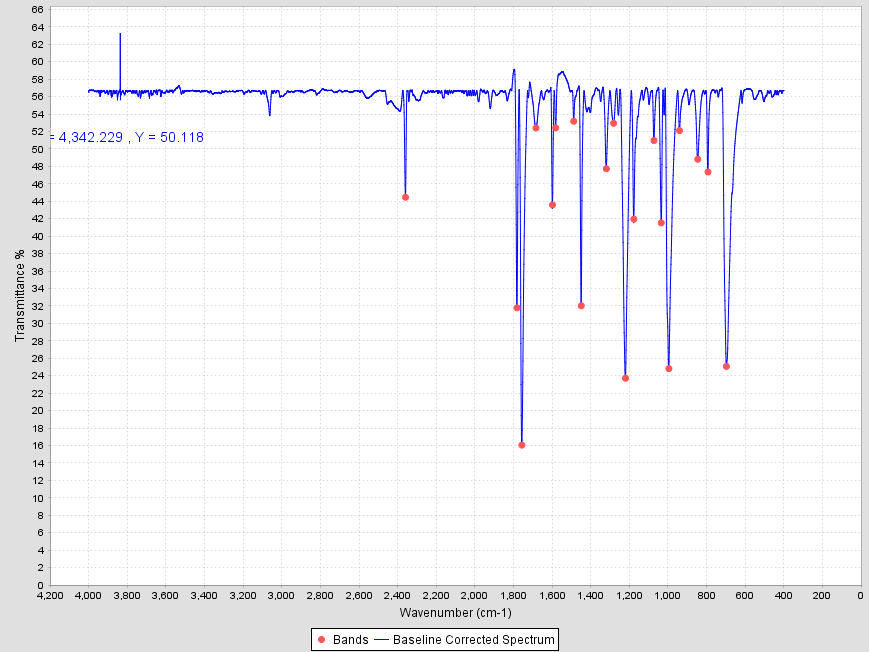
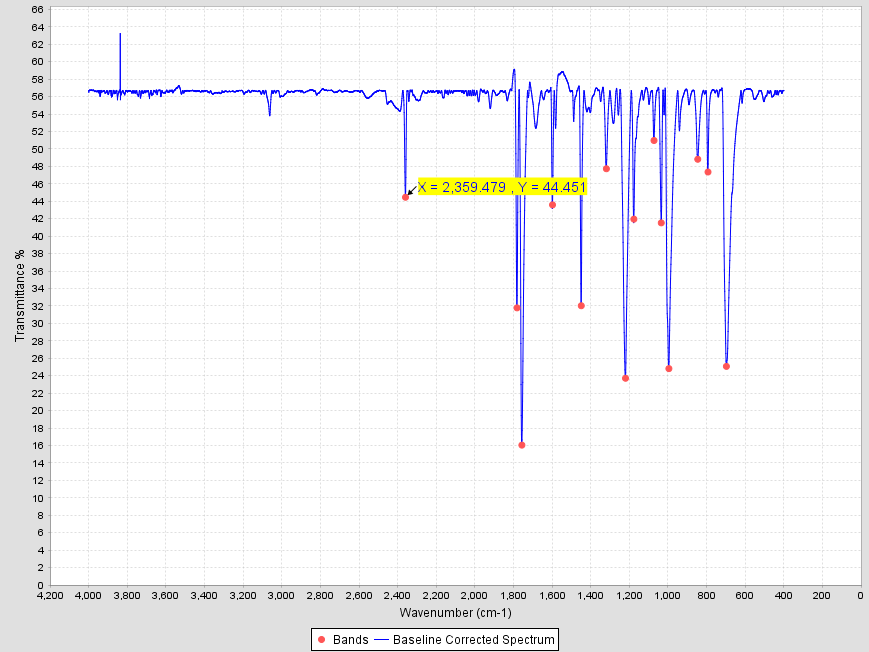
Band label jumping fixed

Changed region(s): [[0.4661, 0.2454, 0.6835, 0.3067], [0.0621, 0.184, 0.1243, 0.2147], [0.1864, 0.184, 0.2175, 0.2147]]

diff --git a/src/msc/ftir/main/MainWindow.java b/src/msc/ftir/main/MainWindow.java
@@ -33,7 +33,6 @@ import java.net.URL;
 import javax.swing.JFileChooser;
 import java.sql.*;
 import java.text.DecimalFormat;
-import java.text.MessageFormat;
 import javax.swing.*;
 import org.jfree.chart.ChartFactory;
 import org.jfree.chart.JFreeChart;
@@ -83,11 +82,8 @@ import msc.ftir.result.CheckBoxRenderer;
 import msc.ftir.result.CheckList;
 import msc.ftir.result.LabeledXYDataset;
 import java.sql.Connection;
-import java.sql.DriverManager;
 import net.sf.jasperreports.engine.JasperFillManager;
 import net.sf.jasperreports.engine.JasperPrint;
-import net.sf.jasperreports.engine.JasperReport;
-import net.sf.jasperreports.engine.JasperCompileManager;
 import net.sf.jasperreports.view.JasperViewer;
 import org.jfree.chart.ChartUtilities;
 
@@ -1793,9 +1789,14 @@ public class MainWindow extends javax.swing.JFrame {
                 peaktops = null;
                 temp_peaktops = null;
                 clickcount = 0;
-
             }
             clearAll();
+            DefaultTableModel dtm = (DefaultTableModel) printTable.getModel();
+            dtm.setRowCount(0);
+
+            specSplitPane.getTopComponent().setMaximumSize(new Dimension());
+            specSplitPane.setDividerLocation(0.5d);
+//            chartPanel_com.setSize(859, 425);
         } else {
             setDefaultCloseOperation(DO_NOTHING_ON_CLOSE);
         }
@@ -2868,11 +2869,11 @@ public class MainWindow extends javax.swing.JFrame {
     private void fileChooser() {
         try {
             Properties props = new Properties();
+//            props.load(getClass().getResourceAsStream("/msc/ftir/util/file.properties"));
             props.load(ClassLoader.class.getResourceAsStream("/msc/ftir/util/file.properties"));
             String p = props.getProperty("jfilechooser.browser.filepath");
             JFileChooser chooser = new JFileChooser(p, null);
             chooser.showOpenDialog(this);
-
             //for file type validation
             File dataFile = chooser.getSelectedFile();
 
@@ -2885,17 +2886,19 @@ public class MainWindow extends javax.swing.JFrame {
                 //store current directory
                 File dataFile2 = chooser.getCurrentDirectory();
                 String newDirectoryLoc = dataFile2.getAbsolutePath().replace("\\", "/");
-                URL url = this.getClass().getResource("/msc/ftir/util/file.properties");
+                URL url = ClassLoader.class.getClass().getResource("/msc/ftir/util/file.properties");
                 String path = url.getPath();
                 OutputStream out = new FileOutputStream(path);
                 props.setProperty("jfilechooser.browser.filepath", newDirectoryLoc);
 
                 props.store(out, null);
                 out.close();
+               
+                        
             }
 
         } catch (Exception e) {
-            System.out.println(e);
+            System.err.println(e);
         }
 
     }
@@ -3320,7 +3323,6 @@ public class MainWindow extends javax.swing.JFrame {
             comPanel.removeAll();
             comPanel.revalidate();
             comPanel.repaint();
-
         } catch (Exception e) {
             System.out.println(e);
         } finally {
@@ -5198,14 +5200,11 @@ public class MainWindow extends javax.swing.JFrame {
             PreparedStatement pst1 = conn.prepareStatement(sql1);
             ResultSet rst = pst1.executeQuery();
 
-//            String sql = "select `WAVENUMBER` AS 'Wavenumber', `BOND` AS 'Bond', `FUNCTIONAL_GROUP` AS 'Functional Group', `COMPOUND_TYPE` AS 'Compound Type' , `COMPOUND_CATEGORY` AS 'Compound Category' from result";
             String sql = "SELECT (@row_number:=@row_number + 1) AS 'Index', round(`WAVENUMBER`,0) AS 'Wavenumber', `BOND` AS 'Bond', `FUNCTIONAL_GROUP` AS 'Functional Group', LIB_INDEX AS 'Lib.Index' from result";
             pst = conn.prepareStatement(sql);
             rs = pst.executeQuery();
             resultTable.setModel(DbUtils.resultSetToTableModel(rs));
 
-//            CheckBoxWrapperTableModel wrapperModel = new CheckBoxWrapperTableModel(DbUtils.resultSetToTableModel(rs), "Select");
-//            resultTable.setModel( wrapperModel );
         } catch (Exception e) {
             System.out.println(e);
         } finally {

diff --git a/src/msc/ftir/result/CheckList.java b/src/msc/ftir/result/CheckList.java
@@ -186,11 +186,13 @@ public class CheckList extends javax.swing.JFrame {
 //            String sql = "SELECT BOND_VIBMODE, FUNCTIONAL_GROUP, COMPOUND_TYPE, COMPOUND_CATEGORY   from library where ID = " + libIndex;
 //            String sql = "SELECT round(result.wavenumber) as 'Wavenumber', library.BOND_VIBMODE As 'Vib. Mode/ Bond', library.FUNCTIONAL_GROUP As 'Functional Group', library.COMPOUND_TYPE As 'Compound Type', library.COMPOUND_CATEGORY As 'Compound Category'  from library, result where library.ID = " + libIndex + " and result.lib_index = " + libIndex + " and library.ID = result.lib_index  LIMIT 1";
             //update 09.03.2020
-            String sql = "SELECT round(result.wavenumber) as 'Wavenumber', library2.BOND_VIBMODE As 'Vib. Mode/ Bond', library2.FUNCTIONAL_GROUP As 'Functional Group', library2.COMPOUND_TYPE As 'Compound Type', library2.COMPOUND_CATEGORY As 'Compound Category', library2.LABEL, library2.bond from library2, result where library2.ID = " + libIndex + " and result.lib_index = " + libIndex + " and library2.ID = result.lib_index  LIMIT 1";
+//            String sql = "SELECT round(result.wavenumber) as 'Wavenumber', library2.BOND_VIBMODE As 'Vib. Mode/ Bond', library2.FUNCTIONAL_GROUP As 'Functional Group', library2.COMPOUND_TYPE As 'Compound Type', library2.COMPOUND_CATEGORY As 'Compound Category', library2.LABEL, library2.bond from library2, result where library2.ID = " + libIndex + " and result.lib_index = " + libIndex + " and library2.ID = result.lib_index  LIMIT 1";
+            
+            String sql = "SELECT round(result.wavenumber) as 'Wavenumber', library2.BOND_VIBMODE As 'Vib. Mode/ Bond', library2.FUNCTIONAL_GROUP As 'Functional Group', library2.COMPOUND_TYPE As 'Compound Type', library2.COMPOUND_CATEGORY As 'Compound Category', library2.LABEL, library2.bond from library2, result where library2.ID = " + libIndex + " and result.lib_index = " + libIndex + " and library2.ID = result.lib_index and round(result.wavenumber)="+wavenumber;
             pst = conn.prepareStatement(sql);
             rs = pst.executeQuery();
 
-            String sql1 = "SELECT result.wavenumber as 'Wavenumber' from result, library2 where library2.ID = " + libIndex + " and result.lib_index = " + libIndex + " and library2.ID = result.lib_index  LIMIT 1";
+            String sql1 = "SELECT result.wavenumber as 'Wavenumber' from result, library2 where library2.ID = " + libIndex + " and result.lib_index = " + libIndex + " and library2.ID = result.lib_index and round(result.wavenumber)="+wavenumber;
             pst2 = conn.prepareStatement(sql1);
             rs2 = pst2.executeQuery();
 
@@ -206,20 +208,21 @@ public class CheckList extends javax.swing.JFrame {
                 mu = "V";
 //                   s = rs.getString("Vib. Mode/ Bond");
                 s = mu + "[ " + s1 + " " + s2 + " ]";
-
+                     
             }
-
-            for (Object i : series0.getItems()) {
+                for (Object i : series0.getItems()) {
                 XYDataItem item = (XYDataItem) i;
                 double x = item.getXValue();
                 double y = item.getYValue();
 
                 if (Math.abs(x - x1) == 0) {
                     System.out.println(x + " " + x + " " + s);
+//                    JOptionPane.showMessageDialog(this, x1 + " " + x + " " + s+" "+libIndex);
                     ds.update(x, s);
                 }
             }
             createReportSpectrum(ds, createBaselineDataset(), MainWindow.comPanel);
+            
         } catch (SQLException e) {
             System.err.println(e);
         } finally {
@@ -561,7 +564,7 @@ public class CheckList extends javax.swing.JFrame {
                         }
 
                     } catch (SQLException ex) {
-                        Logger.getLogger(MainWindow.class.getName()).log(Level.SEVERE, null, ex);
+                        System.err.println(ex);
                     }
                 }
             }
